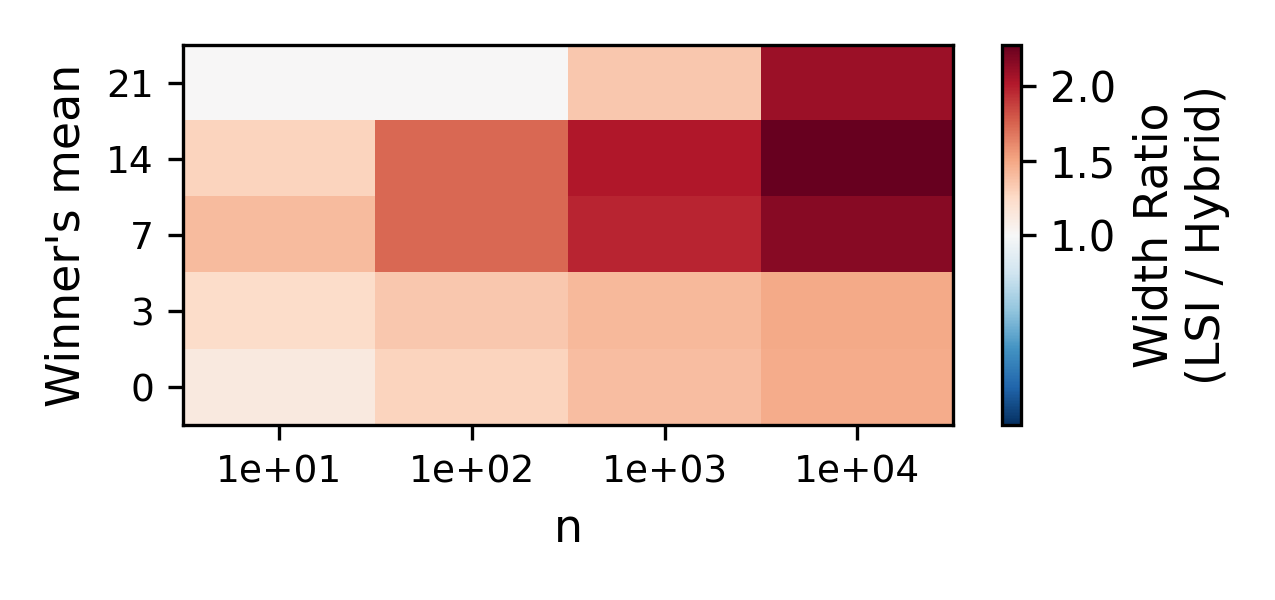
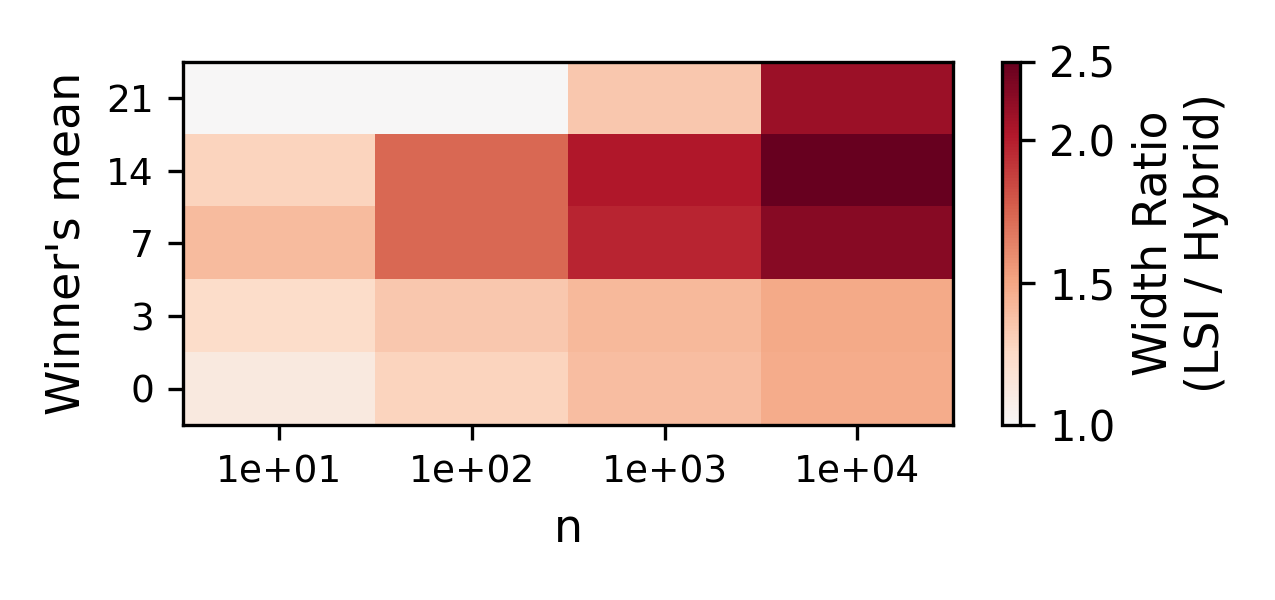
fig 3

diff --git a/vignette-3_width_ratio.py b/vignette-3_width_ratio.py
@@ -134,13 +134,13 @@ grid["ratio"] = [
 #%%
 grid.to_csv("data/vignette_3_width_ratios_results.csv", index=False)
 
-temp_ratio = grid["ratio"].copy()
-grid.loc[grid["ratio"].isna(), "ratio"] = np.inf
-grid.loc[(~temp_ratio.isna()) & (temp_ratio == np.inf), "ratio"] = np.nan
+# temp_ratio = grid["ratio"].copy()
+# grid.loc[grid["ratio"].isna(), "ratio"] = np.inf
+# grid.loc[(~temp_ratio.isna()) & (temp_ratio == np.inf), "ratio"] = np.nan
 # %%
-heat = grid.pivot(index="signal", columns="r", values="ratio")
+grid = pd.read_csv("data/vignette_3_width_ratios_results.csv")
+heat = grid.pivot(index="r", columns="signal", values="ratio")
 
-# %%
 from plotting import MidpointNormalize
 
 norm = MidpointNormalize(
@@ -152,10 +152,11 @@ norm = MidpointNormalize(
 fig, ax = plt.subplots(figsize=(4.25, 2))
 
 im = ax.imshow(
-    heat.values[::-1],
+    heat.values,
     aspect='auto',  # Make tiles rectangles
     cmap="RdBu_r",
     norm=norm,
+    origin='lower'
 )
 
 # Colorbar
@@ -165,18 +166,14 @@ ax.set_xticks(np.arange(len(heat.columns)))
 ax.set_yticks(np.arange(len(heat.index)))
 # ax.set_xticklabels([, "", "", f"{heat.columns.values[-1]:.0e}"], fontsize=9)
 # ax.set_xticks([0, len(heat.columns) - 1])
-ax.set_xticklabels([f"{v:.0e}" for v in heat.columns.values], fontsize=9)
-ax.set_yticklabels(heat.index.values[::-1].round().astype(int), fontsize=9)
+ax.set_xticklabels(heat.columns.values, fontsize=9)
+ax.set_yticklabels(heat.index.values, fontsize=9)
 
-ax.set_xlabel("n", fontsize=11)
-ax.set_ylabel("Winner's mean", fontsize=11)
-
-# Theme_bw-ish
-ax.tick_params(labelsize=9)
-for spine in ax.spines.values():
-    spine.set_visible(True)
+ax.set_xlabel(r"Selection accuracy (λ₀)", fontsize=11)
+ax.set_ylabel(r"Signal (λ/ε)", fontsize=11)
 
 plt.tight_layout()
+
 plt.savefig("figures/vignette_3/vignette-3_width_ratio.png", dpi=300)
 plt.close()
 # plt.show()
